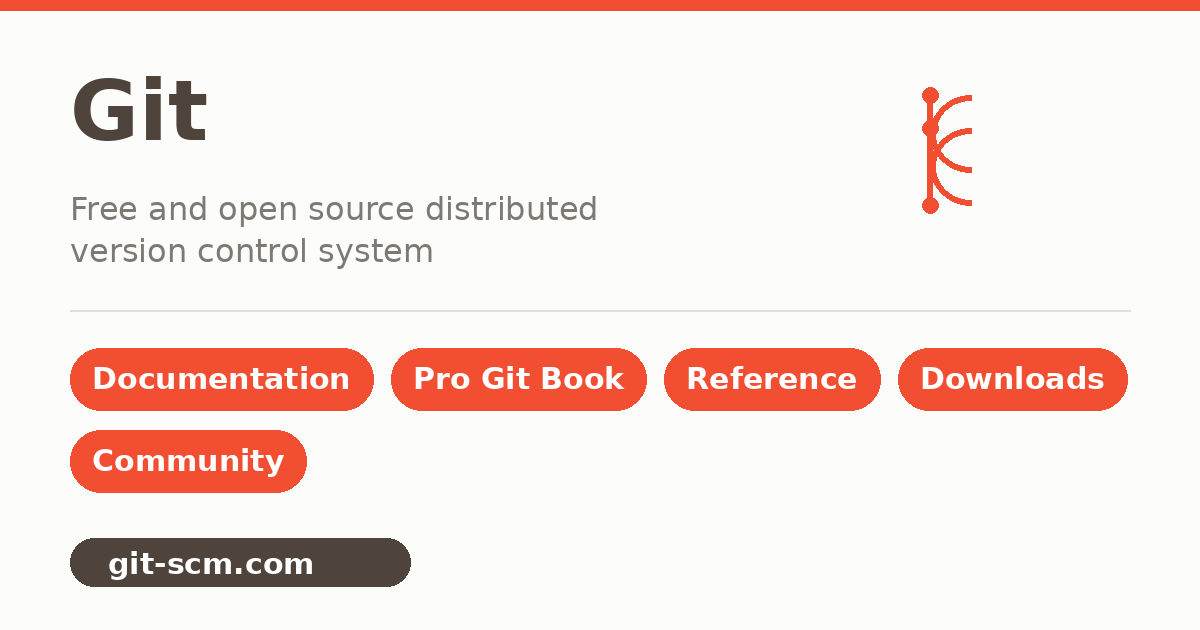
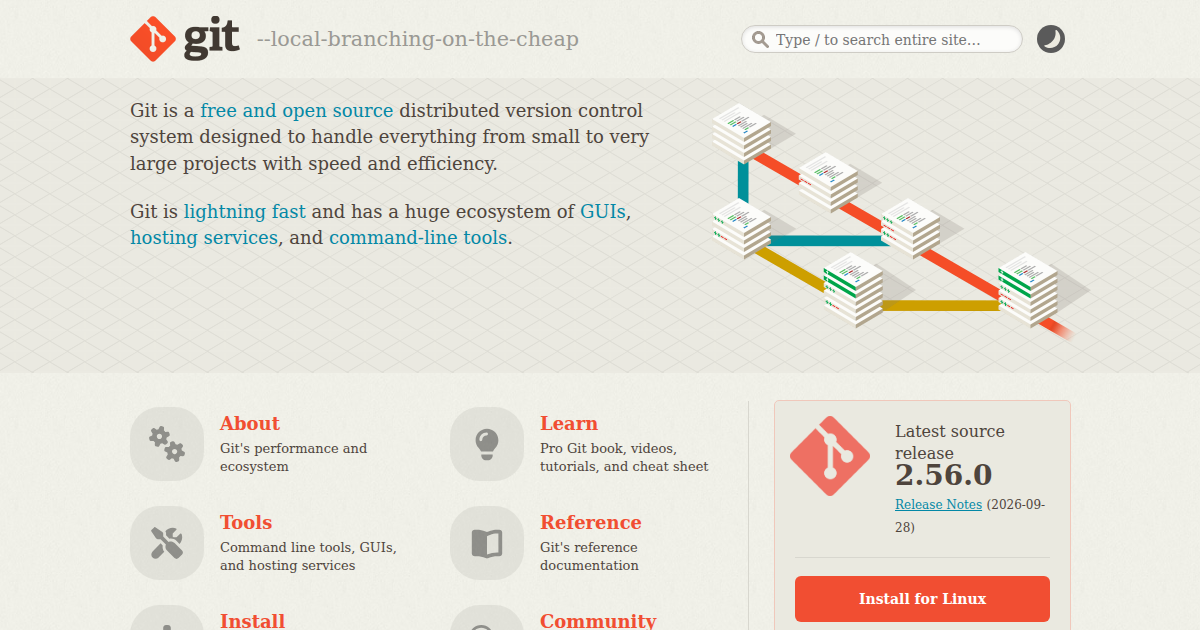
Address review: og:image is now a real site screenshot via Playwright (script/take-og-image.js), drop Python generator
Per maintainer review on git-scm.com#2233:
- Replace the hand-drawn Pillow card with a genuine 1200x630 screenshot of
  the homepage (light mode), taken with the repo's existing Playwright
  tooling (mirrors script/compare-screenshots.js): hugo build -> serve-public.js
  -> chromium clip at 1200x630.
- Remove tools/make-og-image.py (Python) so the repo gains no new scripting
  language; the generator lives in script/ per repo convention.
- Add authoritative references (ogp.me Open Graph protocol, X Cards docs)
  in the PR description.

diff --git a/script/take-og-image.js b/script/take-og-image.js
@@ -1,0 +1,95 @@
+#!/usr/bin/env node
+// @ts-check
+
+/**
+ * Generate a 1200x630 Open Graph image for git-scm.com by taking a real
+ * screenshot of the built site, so the card reflects the site's actual look
+ * and feel.
+ *
+ * Usage:
+ *   node script/take-og-image.js [worktree-path]
+ *
+ * The optional WORKTREE-PATH points at a git-scm.com worktree (default: the
+ * current directory). The script builds the site with Hugo, serves the built
+ * site with script/serve-public.js, captures the homepage in light mode at a
+ * 1200x630 clip, and writes the result to static/images/og-image.png in that
+ * worktree.
+ *
+ * This mirrors the repo's existing screenshot tooling
+ * (script/compare-screenshots.js) — same build/serve helpers, same Playwright
+ * stack — so the OG image is a genuine snapshot of the site rather than a
+ * hand-drawn card that would look nothing like git-scm.com.
+ */
+
+const { chromium } = require('@playwright/test');
+const { spawn, execSync } = require('child_process');
+const fs = require('fs');
+const path = require('path');
+
+const WORKTREE = path.resolve(process.argv[2] || '.');
+const PORT = 5100;
+const VIEWPORT = { width: 1280, height: 720 };
+const CLIP = { x: 40, y: 0, width: 1200, height: 630 };
+const OUTPUT = path.join(WORKTREE, 'static', 'images', 'og-image.png');
+
+async function startServer() {
+  console.error(`Building Hugo site in ${WORKTREE}...`);
+  execSync('hugo', { cwd: WORKTREE, stdio: 'inherit' });
+
+  const serverScript = path.join(WORKTREE, 'script', 'serve-public.js');
+  const server = spawn('node', [serverScript], {
+    cwd: WORKTREE,
+    env: { ...process.env, PORT: String(PORT) },
+    stdio: ['ignore', 'pipe', 'inherit'],
+  });
+
+  await new Promise((resolve, reject) => {
+    const timeout = setTimeout(() => reject(new Error('Server startup timeout')), 30000);
+    server.stdout.on('data', (data) => {
+      if (data.toString().includes('Now listening')) {
+        clearTimeout(timeout);
+        resolve();
+      }
+    });
+    server.stderr.on('data', (data) => {
+      if (data.toString().includes('Now listening')) {
+        clearTimeout(timeout);
+        resolve();
+      }
+    });
+    server.on('error', (err) => {
+      clearTimeout(timeout);
+      reject(err);
+    });
+  });
+
+  return server;
+}
+
+async function main() {
+  const server = await startServer();
+  const browser = await chromium.launch();
+
+  try {
+    const context = await browser.newContext({
+      viewport: VIEWPORT,
+      colorScheme: 'light',
+    });
+    const page = await context.newPage();
+
+    console.error(`Navigating to: http://localhost:${PORT}/`);
+    await page.goto(`http://localhost:${PORT}/`, { waitUntil: 'networkidle' });
+
+    fs.mkdirSync(path.dirname(OUTPUT), { recursive: true });
+    await page.screenshot({ path: OUTPUT, clip: CLIP });
+    console.error(`Saved: ${OUTPUT} (${CLIP.width}x${CLIP.height} clip of the homepage)`);
+  } finally {
+    await browser.close();
+    server.kill();
+  }
+}
+
+main().catch((err) => {
+  console.error(err);
+  process.exit(1);
+});
